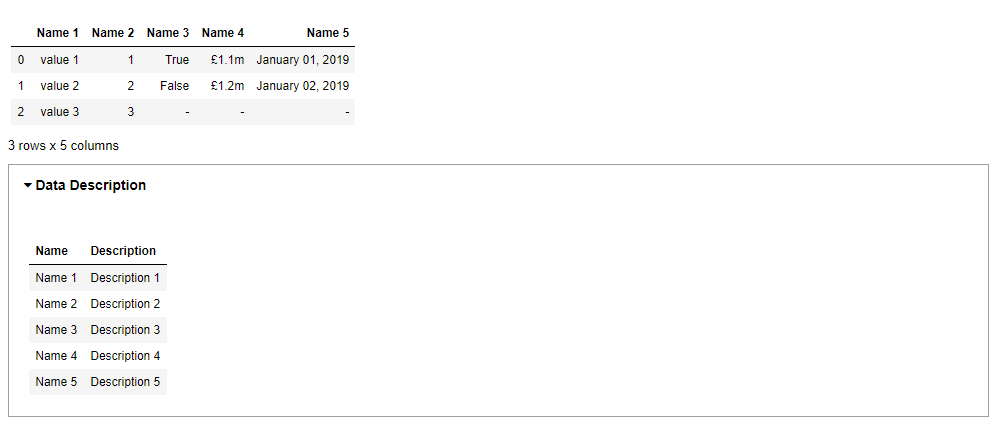
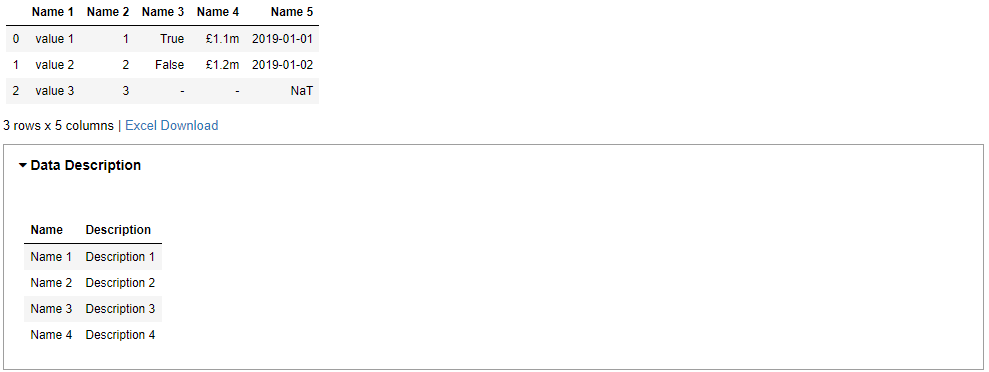
Updated documentation.

diff --git a/README.md b/README.md
@@ -117,7 +117,7 @@ data_df = pd.DataFrame.from_dict(data, orient='index', columns=['Name 1', 'Name 
 df = dd.remap(data_df, 'data_set_1')
 
 # Display the data frame with formatted values and descriptions
-dd.display(df)
+dd.display(df, excel_file='data.xlsx')
 ```
 ![alt text](https://raw.githubusercontent.com/177arc/pandas-datadict/master/datadict_jupyter_example.png "Data dictionary Jupyter example output")
 
